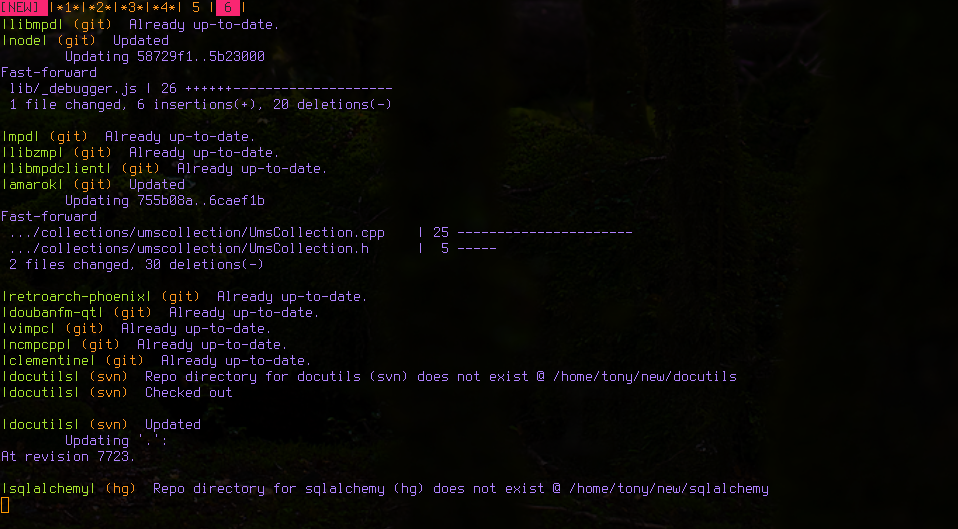
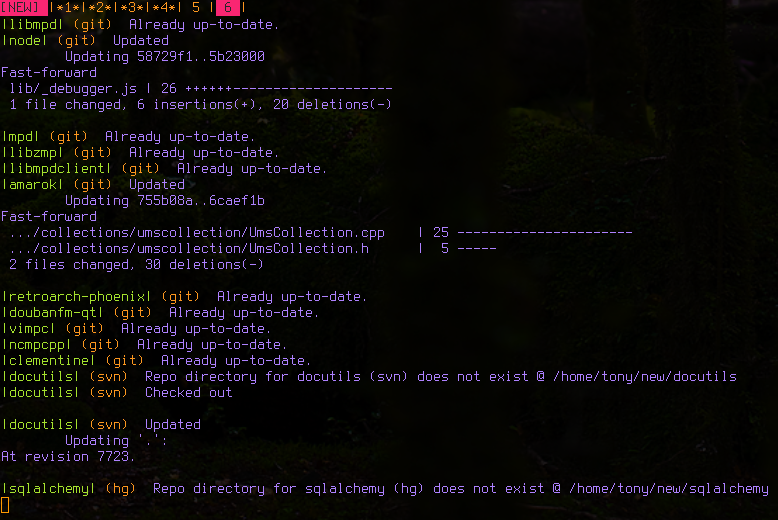
correct url, update image

diff --git a/README.rst b/README.rst
@@ -2,7 +2,7 @@
 pullv(1)
 ========
 
-.. figure:: http://github.com/tony/tmuxp/doc/_static/pullv-screenshot.png
+.. figure:: http://github.com/tony/pullv/doc/_static/pullv-screenshot.png
     :scale: 100%
     :width: 65%
     :align: center
